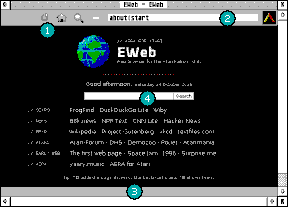
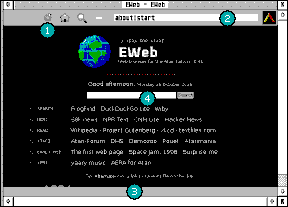
The window on bytes keeps within the desk; the help's window picture again
wind_x8 moves a window at the desk's left edge 7 pixels right (its work
area from x 1 to 8), so a window as wide as the desk ran 7 pixels off
its right edge, its vertical slider cut. on_grid now gives back that
much of its width where it reached the right edge. It is used where the
window opens, is moved, sized and fulled, and where it is put back
from full.

docs/help/WINDOW.IMG and WINDOW.png: taken again on the emulated Falcon
(TOS 4.04, 16 colours) with the same crop and badges, as the window now
stands.

Claude-Session: https://claude.ai/code/session_017yvNQXjua4LVpepx8dokJe

diff --git a/ui/win.c b/ui/win.c
@@ -2291,6 +2291,18 @@ static void resized(void)
 	sliders();
 }
 
+/* the window's border x for its work area on a multiple of 8 across
+   (wind_x8: the guidelines' Speed, text on bytes), and its width less
+   what that moved it where it reached the desk's right edge (a window at
+   the left edge goes 7 pixels right) */
+static void on_grid(short *x, short y, short *w, short h)
+{
+	short nx = wind_x8(icon_kind(KIND), *x, y, *w, h);
+	if (nx > *x && *x + *w <= desk_x + desk_w && nx + *w > desk_x + desk_w)
+		*w -= nx + *w - (desk_x + desk_w);
+	*x = nx;
+}
+
 int win_open(void)
 {
 	short x = opt.win_x, y = opt.win_y, w = opt.win_w, h = opt.win_h;
@@ -2330,7 +2342,7 @@ int win_open(void)
 	if (!cur->title[0])
 		str_copy(cur->title, " EWeb ", sizeof cur->title);
 	wind_set_str(cur->h, WF_NAME, cur->title);
-	x = wind_x8(icon_kind(KIND), x, y, w, h);	/* the work area's text on bytes */
+	on_grid(&x, y, &w, h);		/* the work area's text on bytes */
 	wind_open(cur->h, x, y, w, h);
 	get_work();
 	save_place();
@@ -2500,16 +2512,10 @@ static void message(const short *msg)
 			break;
 		wind_get(cur->h, WF_CURRXYWH, &c.x, &c.y, &c.w, &c.h);
 		wind_get(cur->h, WF_FULLXYWH, &f.x, &f.y, &f.w, &f.h);
-		{
-			/* (fulled: as wide as the desk less what puts its work
-			   area on a byte) */
-			short fx = wind_x8(icon_kind(KIND), f.x, f.y, f.w, f.h);
-			f.w -= fx - f.x;
-			f.x = fx;
-		}
+		on_grid(&f.x, f.y, &f.w, f.h);	/* (fulled: within the desk, on a byte) */
 		if (c.x == f.x && c.y == f.y && c.w == f.w && c.h == f.h) {
 			wind_get(cur->h, WF_PREVXYWH, &p.x, &p.y, &p.w, &p.h);
-			p.x = wind_x8(icon_kind(KIND), p.x, p.y, p.w, p.h);
+			on_grid(&p.x, p.y, &p.w, p.h);
 			wind_set(cur->h, WF_CURRXYWH, p.x, p.y, p.w, p.h);
 		} else {
 			wind_set(cur->h, WF_CURRXYWH, f.x, f.y, f.w, f.h);
@@ -2533,7 +2539,11 @@ static void message(const short *msg)
 			h = 12 * gl_hchar;
 		/* its work area on a byte across (the guidelines' Speed:
 		   text on bytes), up to 7 pixels from where it was put */
-		wind_set(cur->h, WF_CURRXYWH, wind_x8(icon_kind(KIND), msg[4], msg[5], w, h), msg[5], w, h);
+		{
+			short x = msg[4];
+			on_grid(&x, msg[5], &w, h);
+			wind_set(cur->h, WF_CURRXYWH, x, msg[5], w, h);
+		}
 		resized();
 		if (msg[0] == WM_SIZED)
 			win_redraw(NULL);
